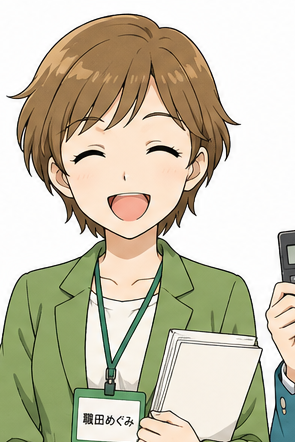
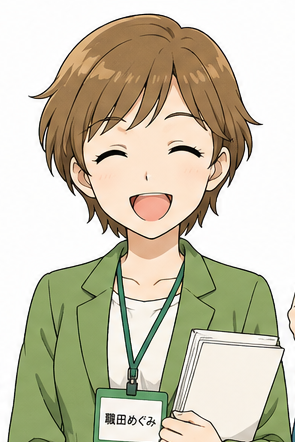
法律キャラ(女性アニメ)導入: 列ヘッダー顔・トップ図鑑、⭕❌フラッシュ、任意加入の表を転置
- icons/chars/に10法律の女性キャラ顔を追加(国年等5枚は中央寄せに再切出し)。
- 表の列ヘッダーが法律のとき顔アイコンを表示(lawCharId)。トップに法律キャラ図鑑。
- 回答時に画面上部へ⭕/❌フラッシュ表示。
- nini-kanyu(任意加入)の表を「列=労災/雇用/健保厚年」に転置しキャラ顔を表示。
- 既出: アプリ名=横断宮殿、キャッチコピー削除。SWキャッシュ更新。

diff --git a/js/content.js b/js/content.js
@@ -95,11 +95,12 @@ const CROSS_TOPICS = [
       ],
     },
     table: {
-      headers: ['制度', '加入の要件', '加入の申請義務', '取消の要件', '取消の申請義務'],
+      headers: ['区分', '労災', '雇用', '健保・厚年'],
       rows: [
-        ['労災', '同意は不要', '過半数が希望', '過半数の同意＋成立後1年経過', '生じない'],
-        ['雇用', '1/2以上の同意', '1/2以上が希望', '3/4以上の同意', '生じない'],
-        ['健保・厚年', '1/2以上の同意', '生じない', '3/4以上の同意', '生じない'],
+        ['加入の要件', '同意は不要', '1/2以上の同意', '1/2以上の同意'],
+        ['加入の申請義務', '過半数が希望', '1/2以上が希望', '生じない'],
+        ['取消の要件', '過半数の同意＋成立後1年経過', '3/4以上の同意', '3/4以上の同意'],
+        ['取消の申請義務', '生じない', '生じない', '生じない'],
       ],
     },
     cards: [
@@ -261,16 +262,11 @@ const CROSS_TOPICS = [
     title: '遺族の要件',
     tagline: '誰がもらえるか — 労災(補償)・厚年(厚生)・国年(基礎)を横断で',
     subjects: ['rosai', 'konen', 'kokunen'],
-    palace: {
-      intro: '家族写真を1枚ずつ見て「遺族になれるか」を置きます。労災(補償)・厚生・基礎の3制度で比べます。',
-      steps: [
-        { spot: '🤝 玄関の表札(共通)', story: 'まず全員「生計維持」が必要。年金(厚生・基礎)はさらに“年収850万円(所得655.5万円)未満”の収入のフダ。' },
-        { spot: '👨 居間の夫・父母・祖父母', story: '補償は60歳以上(当分の間55歳)、厚生は55歳以上だが60歳まで支給停止。' },
-        { spot: '🧒 子ども部屋の子・孫', story: '18歳年度末まで(障害は別)。厚生は20歳未満1・2級以上かつ未婚も。' },
-        { spot: '👶 基礎年金の小部屋', story: '遺族基礎は「子と生計同一の配偶者」と「子」だけ(夫に年齢要件なし)。' },
-        { spot: '👫 屋根裏の兄弟姉妹', story: '兄弟姉妹が遺族に入れるのは労災だけ。' },
-      ],
-    },
+    voices: [
+      { subj: 'rosai', name: '労災さん(遺族補償年金)', line: 'ウチは兄弟姉妹まで面倒みるよ。夫・父母・祖父母は60歳以上(当分は55歳でもOK)、子・孫は18歳の年度末までね。' },
+      { subj: 'konen', name: '厚年さん(遺族厚生年金)', line: '兄弟姉妹はナシ。夫たちは55歳以上だけど60歳まで支給ストップ。子・孫は20歳未満で障害1・2級ならまだイケる。' },
+      { subj: 'kokunen', name: '国年さん(遺族基礎年金)', line: '配偶者と子だけ。夫でも年齢は問わない(子と生計同一ならOK)。年金組は年収850万円未満の収入要件もあるよ。' },
+    ],
     table: {
       headers: ['続柄', '遺族補償年金(労災)', '遺族厚生年金(厚年)', '遺族基礎年金(国年)'],
       rows: [
@@ -409,6 +405,11 @@ const CROSS_TOPICS = [
     tagline: '健保・日雇特例・船員保険で待期/支給額/支給期間を横断',
     subjects: ['kenpo', 'shaippan'],
     note: '【横断】待期＝健保・日雇特例は連続3日、船員保険は待期不要。支給額＝健保・船員は標準報酬月額×1/30×2/3、日雇特例は月の標準賃金日額の合算額×1/45。支給期間＝健保は1年6か月、日雇特例は原則6か月(結核性疾病は1年6か月)、船員保険は3年。日雇特例は「労務不能となった際に療養の給付等を受けている」ことが要件。',
+    voices: [
+      { subj: 'kenpo', name: '健保さん', line: '待期は連続3日、支給は通算1年6月。額は標準報酬月額×1/30×2/3だよ。' },
+      { subj: 'kenpo', name: '日雇特例さん', line: 'ウチは「労務不能になった際に療養給付等を受けてる」のが要件。額は標準賃金日額の合算×1/45、期間は原則6月(結核は1年6月)。待期は3日。' },
+      { subj: 'shaippan', name: '船員保険さん', line: '待期はナシ、すぐ出すよ。額は健保と同じ計算だけど、期間は3年と長め。' },
+    ],
     table: {
       headers: ['区分', '健康保険の被保険者', '日雇特例被保険者', '船員保険の被保険者'],
       rows: [
@@ -435,6 +436,11 @@ const CROSS_TOPICS = [
     tagline: '故意・過失・命令違反などで給付がどう制限されるかを横断',
     subjects: ['kenpo', 'kokunen', 'konen', 'rosai'],
     note: '【横断】「故意」に事故を生じさせれば3制度とも支給しない。故意の犯罪行為・重大な過失等は「全部又は一部を行わないことができる」(健保の故意の犯罪行為だけは支給しない)。命令違反＝健保は給付制限、国年厚年は支給停止、労災は支払の一時差止め。届出・提出をしないと国年厚年・労災は支払を一時差止め(健保は規定なし)。',
+    voices: [
+      { subj: 'kenpo', name: '健保さん', line: '故意の犯罪行為は「支給しない」と厳しめ。命令違反は給付の全部又は一部を行わない。届出をしない給付制限はウチには無いよ。' },
+      { subj: 'konen', name: '国年・厚年さん', line: '故意の犯罪・重過失は全部又は一部を行わない。命令違反は「支給停止」、届出をしないと「支払を一時差止め」ね。' },
+      { subj: 'rosai', name: '労災さん', line: '命令違反は「支払を一時差止め」。届出・提出をしないときも一時差止めできるよ。' },
+    ],
     table: {
       headers: ['事由', '健康保険', '国年・厚年', '労災保険'],
       rows: [
@@ -462,6 +468,10 @@ const CROSS_TOPICS = [
     tagline: '労災の葬祭料と健保の埋葬料・埋葬費を横断(船員も同額)',
     subjects: ['rosai', 'kenpo', 'shaippan'],
     note: '【労災】葬祭料・葬祭給付＝「315,000円＋給付基礎日額の30日分」と「給付基礎日額の60日分」のいずれか高い方。【健保】埋葬料＝定額5万円／埋葬費＝埋葬料の範囲内で埋葬に要した実費。船員保険の葬祭料も健保と同額。',
+    voices: [
+      { subj: 'rosai', name: '労災さん(葬祭料)', line: '「315,000円＋給付基礎日額30日分」と「給付基礎日額60日分」の高い方を出すよ。' },
+      { subj: 'kenpo', name: '健保さん(埋葬料)', line: 'ウチは定額5万円。実際に埋葬した人には範囲内で実費(埋葬費)も出すよ。船員保険もウチと同額ね。' },
+    ],
     table: {
       headers: ['区分', '内容'],
       rows: [

diff --git a/js/app.js b/js/app.js
@@ -184,6 +184,13 @@
     }).join('');
 
     view.innerHTML = `
+      <div class="card-box char-gallery">
+        <h3>法律キャラ図鑑</h3>
+        <div class="char-row">
+          ${LAW_CHARACTERS.map((c) =>
+            `<div class="char-item"><img src="./icons/chars/${c.id}.png" style="border-color:${SUBJECTS[c.id] ? SUBJECTS[c.id].color : '#cbd5e1'}" alt=""><span class="char-law">${c.law}</span><span class="char-name">${c.name}</span></div>`).join('')}
+        </div>
+      </div>
       <div class="subj-filter">
         <button class="sfchip${homeSubj === null ? ' on' : ''}" data-subj="">すべて</button>
         ${subjList.map((sj) =>
@@ -252,10 +259,13 @@
         </div>
         <div class="table-wrap sheet" id="cmp-wrap">
           <table class="cmp">
-            <thead><tr>${topic.table.headers.map((h, i) =>
-                (multiCol && i > 0)
-                  ? `<th class="colh" style="--colc:${colAccent(i)}">${h}</th>`
-                  : `<th>${h}</th>`).join('')}</tr></thead>
+            <thead><tr>${topic.table.headers.map((h, i) => {
+                const cid = lawCharId(h);
+                const face = cid ? `<img class="colface" src="./icons/chars/${cid}.png" style="border-color:${rowLawColor(h) || '#cbd5e1'}" alt="">` : '';
+                const cls = (multiCol && i > 0) ? ' class="colh"' : '';
+                const style = (multiCol && i > 0) ? ` style="--colc:${colAccent(i)}"` : '';
+                return `<th${cls}${style}>${face}${h}</th>`;
+              }).join('')}</tr></thead>
             <tbody>${topic.table.rows.map((r, ri) => {
                 const lc = rowLawColor(r[0]) ||
                   (topic.subjects && topic.subjects.length === 1 && SUBJECTS[topic.subjects[0]]
@@ -286,6 +296,17 @@
             ${topic.palace.steps.map((s) =>
               `<li><span class="pt-spot">${s.spot}</span><span class="pt-story">${s.story}</span></li>`).join('')}
           </ol>
+        </div>` : ''}
+        ${topic.voices && topic.voices.length ? `
+        <div class="voices">
+          <div class="vc-head">🗣 制度のホンネ(差分)</div>
+          ${topic.voices.map((v) => {
+            const c = (v.subj && SUBJECTS[v.subj]) ? SUBJECTS[v.subj].color : '#64748b';
+            return `<div class="vc-row" style="--vc:${c}">
+              <span class="vc-name">${v.name}</span>
+              <span class="vc-line">${v.line}</span>
+            </div>`;
+          }).join('')}
         </div>` : ''}
       </div>
       <button class="btn-primary big" id="study-topic">一問一答で復習(${topic.cards.length}枚)</button>`;
@@ -351,6 +372,36 @@
     for (const [re, c] of LAW_COLORS) if (re.test(t)) return c;
     return null;
   }
+
+  // 法律→キャラ(顔アイコン)の対応。表の列ヘッダや記憶の宮殿で使う
+  const LAW_CHARS = [
+    [/労働基準|労基/, 'kijun'],
+    [/安全衛生|安衛/, 'anei'],
+    [/労災/, 'rosai'],
+    [/雇用/, 'koyo'],
+    [/徴収|労働保険料/, 'choshu'],
+    [/厚生年金|厚年/, 'konen'],
+    [/国民年金|国年/, 'kokunen'],
+    [/健康保険|健保/, 'kenpo'],
+  ];
+  function lawCharId(text) {
+    const t = String(text || '');
+    for (const [re, id] of LAW_CHARS) if (re.test(t)) return id;
+    return null;
+  }
+  // 法律キャラ名簿(トップページの図鑑用)
+  const LAW_CHARACTERS = [
+    { id: 'kijun', name: '基島規子', law: '労基' },
+    { id: 'anei', name: '守谷衛', law: '安衛' },
+    { id: 'rosai', name: '災堂咲', law: '労災' },
+    { id: 'koyo', name: '職田めぐみ', law: '雇用' },
+    { id: 'choshu', name: '収沢徴子', law: '徴収' },
+    { id: 'kenpo', name: '保科碧', law: '健保' },
+    { id: 'konen', name: '厚見年実', law: '厚年' },
+    { id: 'kokunen', name: '国原みのり', law: '国年' },
+    { id: 'roippan', name: '労井美樹', law: '労一' },
+    { id: 'shaippan', name: '市役あい', law: '社一' },
+  ];
 
   // 表の「答え列」を左から順に色分けする(例: 5年=青 / 2年=橙 / 時効にかからない=灰)
   const COL_ACCENTS = ['#2563eb', '#d97706', '#0891b2', '#16a34a'];

diff --git a/styles.css b/styles.css
@@ -86,6 +86,23 @@ body {
 [data-theme="dark"] .pt-story { color: #e2e8f0; }
 [data-theme="dark"] .pt-head { color: #c4b5fd; }
 
+/* ---- 制度のホンネ(差分セリフ) ---- */
+.voices { margin: 12px 0 0; padding: 12px 14px; border-radius: 12px; background: #f8fafc; border: 1px solid var(--line); }
+.vc-head { font-weight: 800; font-size: 13.5px; color: #334155; margin-bottom: 8px; }
+.vc-row { display: grid; grid-template-columns: auto 1fr; gap: 8px; align-items: start; margin-bottom: 8px; }
+.vc-name {
+  white-space: nowrap; align-self: start; font-size: 11.5px; font-weight: 800; color: #fff;
+  background: var(--vc, #64748b); border-radius: 8px; padding: 3px 8px;
+}
+.vc-line {
+  font-size: 13.5px; line-height: 1.6; color: #1e293b;
+  background: #fff; border: 1px solid var(--line); border-left: 3px solid var(--vc, #64748b);
+  border-radius: 8px; padding: 7px 10px;
+}
+[data-theme="dark"] .voices { background: #0f172a; }
+[data-theme="dark"] .vc-head { color: #cbd5e1; }
+[data-theme="dark"] .vc-line { background: #1e293b; color: #e2e8f0; }
+
 /* ---- 覚え方ページ ---- */
 .mg-text { font-size: 14px; line-height: 1.8; margin: 6px 0 0; }
 .mg-steps { margin: 8px 0 0; padding-left: 22px; }
@@ -541,3 +558,23 @@ code { background: var(--bg); padding: 1px 5px; border-radius: 5px; font-size: 1
   from { opacity: 0; transform: translate(-50%, -10px) scale(.85); }
   to   { opacity: 1; transform: translate(-50%, 0) scale(1); }
 }
+
+/* ---- 列ヘッダーの法律キャラ顔 ---- */
+table.cmp th .colface {
+  display: block; width: 22px; height: 22px; margin: 0 auto 2px;
+  border-radius: 50%; object-fit: cover; object-position: center top;
+  border: 1.5px solid #cbd5e1; background: #fff;
+}
+table.cmp th { text-align: center; }
+table.cmp th:first-child { text-align: left; }
+
+/* ---- トップページのキャラ図鑑 ---- */
+.char-gallery h3 { margin: 0 0 8px; font-size: 15px; }
+.char-row { display: flex; gap: 10px; overflow-x: auto; padding-bottom: 4px; -webkit-overflow-scrolling: touch; }
+.char-item { flex: none; width: 44px; text-align: center; }
+.char-item img {
+  width: 40px; height: 40px; border-radius: 50%;
+  object-fit: cover; object-position: center top; border: 1.5px solid #cbd5e1; background: #fff;
+}
+.char-law { display: block; font-size: 10px; font-weight: 800; color: #334155; margin-top: 2px; }
+.char-name { display: block; font-size: 9px; color: #64748b; line-height: 1.25; }

diff --git a/sw.js b/sw.js
@@ -1,5 +1,5 @@
 /* Service Worker — オフラインでも使えるよう静的アセットをキャッシュ */
-const CACHE = 'sharo-v52';
+const CACHE = 'sharo-v54';
 const ASSETS = [
   './',
   './index.html',
